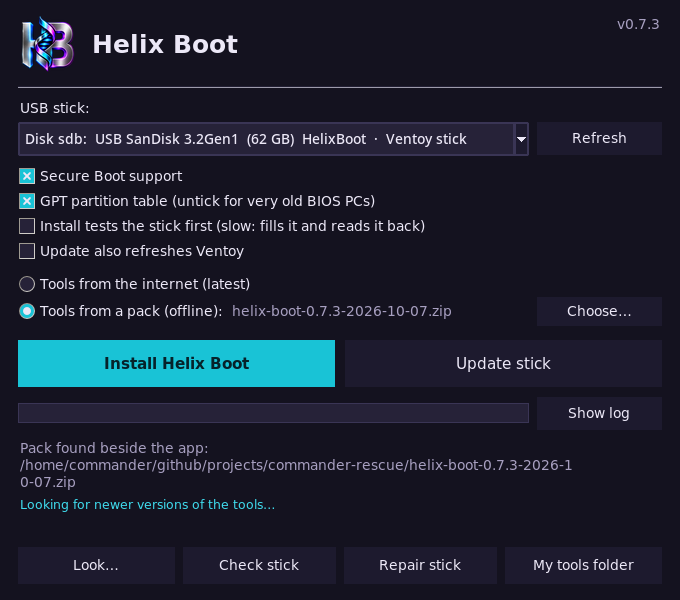
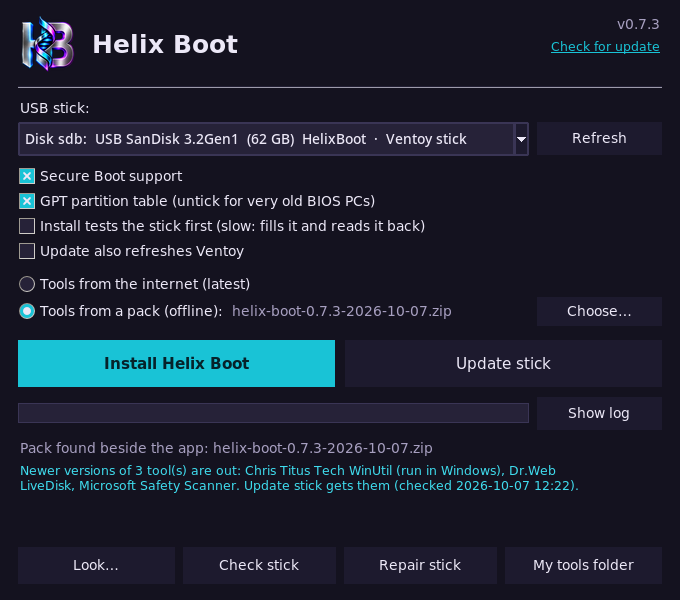
The app looks for a newer Helix Boot, asks, and puts the verified download in its own place

Changed region(s): [[0.0309, 0.72, 0.8338, 0.87], [0.8029, 0.06, 0.9882, 0.09]]

diff --git a/windows/helix_boot.py b/windows/helix_boot.py
@@ -605,6 +605,75 @@ def repair(target: str, run=None) -> str:
             if code else f"✓ Windows found nothing wrong with the filesystem on {drive}.")
 
 
+# ── A newer Helix Boot ─────────────────────────────────────────────────────
+APP_ASSET = "HelixBoot.exe"         # this program's file in a release (linux/helix_gui.py has its own)
+
+
+def app_news(cfg, refresh: bool = False) -> dict | None:
+    """{"current", "latest", "newer", "declined"}, or None when the look is turned off
+    (check_for_updates = false in local.toml) and wasn't asked for by hand."""
+    if not refresh and cfg.settings.get("check_for_updates", True) is False:
+        return None
+    return cr.app_update(cfg, refresh=refresh)
+
+
+def old_program(me: Path) -> Path:
+    return me.with_name(f"{me.stem}.old{me.suffix}")
+
+
+def replace_program(new: Path, me: Path) -> None:
+    """Put a downloaded program where the running one is. A running program can be renamed, on
+    Windows too, though not written over: it steps aside as <name>.old and the new one takes its
+    name. The old one is deleted at the next start."""
+    staged, old = me.with_name(me.name + ".new"), old_program(me)
+    shutil.copy2(new, staged)
+    if os.name != "nt":
+        staged.chmod(0o755)
+    old.unlink(missing_ok=True)
+    os.replace(me, old)
+    try:
+        os.replace(staged, me)
+    except OSError:
+        os.replace(old, me)             # as it was
+        staged.unlink(missing_ok=True)
+        raise
+
+
+def tidy_old_program() -> None:
+    """Delete what an update left behind (the program that was running then)."""
+    if FROZEN:
+        try:
+            old_program(Path(sys.executable).resolve()).unlink(missing_ok=True)
+        except OSError:
+            pass
+
+
+def self_update(progress=lambda pct: None, me: Path | None = None) -> str:
+    """Download the latest release's program, verified, and put it in this one's place.
+    Returns what to tell the user; RescueError when it can't be done here."""
+    cfg = config()
+    found = cr.app_update(cfg, refresh=True)
+    if not found["newer"]:
+        return f"✓ Helix Boot {found['current']} is the newest version."
+    if me is None:
+        if not FROZEN:
+            raise RescueError(f"Helix Boot {found['latest']} is out (this is {found['current']}), but this one runs "
+                              "from a copy of the repo and not from a downloaded program: update it with `git pull`.")
+        me = Path(sys.executable).resolve()
+    print(f"\nDownloading Helix Boot {found['latest']} ({APP_ASSET}) …")
+    new, version = cr.fetch_app(cfg, APP_ASSET)
+    if cr._numbers(version) <= cr._numbers(found["current"]):
+        raise RescueError(f"the download is Helix Boot {version or '?'}, which isn't newer than this one")
+    try:
+        replace_program(new, me)
+    except OSError as e:
+        raise RescueError(f"couldn't put the new program in place ({e}). It is at {new}: copy it over "
+                          f"{me.name} yourself.") from None
+    progress(100)
+    return (f"✓ Helix Boot {version} is in place of {found['current']}. Close this window and start "
+            f"{me.name} again to use it.")
+
+
 # ── Output plumbing ────────────────────────────────────────────────────────
 class Tee:
     """Stand-in for stdout/stderr: to the GUI queue and/or a log file."""
@@ -660,6 +729,7 @@ def apply_theme(root) -> None:
     style.configure("TLabel", background=BG, foreground=TEXT)
     style.configure("Muted.TLabel", foreground=MUTED)
     style.configure("News.TLabel", foreground=ACCENT_HOT, font=(FONT, 9))
+    style.configure("Link.TLabel", foreground=ACCENT, font=(FONT, 9, "underline"))
     style.configure("Title.TLabel", font=(FONT, 18, "bold"))
     style.configure("TButton", background=PANEL, foreground=TEXT, padding=(12, 7), relief="flat", borderwidth=1)
     style.map("TButton", background=[("disabled", BG), ("pressed", EDGE), ("active", FIELD)],
@@ -754,7 +824,11 @@ def gui(selftest: bool = False) -> int:
     if logo:
         ttk.Label(head, image=logo).pack(side="left", padx=(0, 12))
     ttk.Label(head, text="Helix Boot", style="Title.TLabel").pack(side="left")
-    ttk.Label(head, text=f"v{cr.__version__}", style="Muted.TLabel").pack(side="right", anchor="n")
+    corner = ttk.Frame(head)
+    corner.pack(side="right", anchor="n")
+    ttk.Label(corner, text=f"v{cr.__version__}", style="Muted.TLabel").pack(anchor="e")
+    b_newer = ttk.Label(corner, text="Check for update", style="Link.TLabel", cursor="hand2")
+    b_newer.pack(anchor="e", pady=(2, 0))
     ttk.Separator(frm).pack(fill="x", pady=(12, 10))
 
     ttk.Label(frm, text="USB stick:").pack(anchor="w")
@@ -997,6 +1071,31 @@ def gui(selftest: bool = False) -> int:
                 q.put(("news", f"Couldn't look for newer versions of the tools ({e})."))
         threading.Thread(target=job, daemon=True).start()
 
+    def look_for_newer_app():
+        """In the background, at the start: is there a newer Helix Boot? Asked about once a version."""
+        def job():
+            try:
+                found = app_news(config())
+            except Exception:  # noqa: BLE001 — offline: nothing to say
+                return
+            if found and found["newer"]:
+                q.put(("app", found))
+        threading.Thread(target=job, daemon=True).start()
+
+    def do_self_update(event=None):
+        if not busy["on"]:
+            work(lambda progress: self_update(progress), done=lambda text: text)
+
+    def offer_newer_app(found):
+        b_newer.config(text=f"Update to v{found['latest']}")
+        if not FROZEN or busy["on"] or found.get("declined") == found["latest"]:
+            return                      # (from a clone it is `git pull`: the link says so when clicked)
+        if messagebox.askyesno(APP, f"Helix Boot {found['latest']} is out. This is {found['current']}.\n\n"
+                                    "Download it and put it in this one's place?"):
+            do_self_update()
+        else:
+            cr.app_decline(config(), found["latest"])
+
     def do_check():
         d = selected()
         if not d:
@@ -1036,6 +1135,8 @@ def gui(selftest: bool = False) -> int:
                         status.config(text=last[0][:110])
                 elif item[0] == "news":
                     news.config(text=item[1])
+                elif item[0] == "app":
+                    offer_newer_app(item[1])
                 elif item[0] == "total":
                     copying.update(total=item[1], done=0)
                 elif item[0] == "bytes":
@@ -1081,6 +1182,7 @@ def gui(selftest: bool = False) -> int:
     b_look.config(command=do_look)
     b_check.config(command=do_check)
     b_repair.config(command=do_repair)
+    b_newer.bind("<Button-1>", do_self_update)
     b_install.config(command=do_install)
     b_update.config(command=do_update)
     b_pack.config(command=choose_pack)
@@ -1092,6 +1194,7 @@ def gui(selftest: bool = False) -> int:
         root.after(2500, root.destroy)
     else:
         root.after(300, look_for_updates)
+        root.after(1500, look_for_newer_app)
     root.mainloop()
     return 0
 
@@ -1433,6 +1536,8 @@ def cli(argv: list[str]) -> int:
     ap.add_argument("--repair", metavar="DRIVE", help="have Windows repair a stick's filesystem (chkdsk /f)")
     ap.add_argument("--boot-script", metavar="VOLUME", help=argparse.SUPPRESS)   # with --sync-to: Ventoy's partition
     ap.add_argument("--updates", action="store_true", help="say which tools have newer versions than this PC has")
+    ap.add_argument("--self-update", action="store_true",
+                    help="download the latest Helix Boot, verified, and put it in this one's place")
     ap.add_argument("--yes", action="store_true", help="confirm --install")
     ap.add_argument("--mbr", action="store_true", help="MBR instead of GPT")
     ap.add_argument("--no-secure-boot", action="store_true")
@@ -1468,6 +1573,9 @@ def cli(argv: list[str]) -> int:
         if a.updates:
             print(updates_notice(config(), refresh=True))
             return 0
+        if a.self_update:
+            print(self_update())
+            return 0
         if a.list:
             disks = all_disks() if a.all else usb_disks()
             print(json.dumps(disks, indent=2))
@@ -1498,6 +1606,7 @@ def cli(argv: list[str]) -> int:
 
 def main() -> int:
     try:
+        tidy_old_program()
         if len(sys.argv) > 1:
             return cli(sys.argv[1:])
         return gui()

diff --git a/tests/test_windows_app.py b/tests/test_windows_app.py
@@ -513,5 +513,101 @@ class TestPackaging(unittest.TestCase):
         self.assertEqual(sorted(missing), [], "add these imports to windows/helix_boot.py")
 
 
+class TestSelfUpdate(unittest.TestCase):
+    def setUp(self):
+        self.tmp = Path(tempfile.mkdtemp())
+        self.cfg = mock.Mock(cache=self.tmp / "cache", settings={})
+        self.cfg.cache.mkdir()
+        p = mock.patch.object(app, "config", lambda: self.cfg)
+        p.start()
+        self.addCleanup(p.stop)
+
+    def latest(self, tag):
+        return mock.patch.object(app.cr, "_latest_tag", lambda repo: tag)
+
+    def test_asks_where_the_latest_release_is_and_remembers_for_a_while(self):
+        newer = f"v{app.cr.__version__.rsplit('.', 1)[0]}.999"
+        with self.latest(newer):
+            found = app.cr.app_update(self.cfg)
+        self.assertEqual((found["current"], found["latest"], found["newer"]), (app.cr.__version__, newer[1:], True))
+        with mock.patch.object(app.cr, "_latest_tag", side_effect=AssertionError("asked again too soon")):
+            self.assertTrue(app.cr.app_update(self.cfg)["newer"])          # from the last look
+        with self.latest(f"v{app.cr.__version__}"):
+            self.assertFalse(app.cr.app_update(self.cfg, refresh=True)["newer"])
+        with self.latest("v0.0.1"):
+            self.assertFalse(app.cr.app_update(self.cfg, refresh=True)["newer"])    # never offered an older one
+        with self.latest(None):                                             # offline: says so when asked by hand
+            with self.assertRaisesRegex(app.cr.RescueError, "couldn't ask GitHub"):
+                app.cr.app_update(self.cfg, refresh=True)
+            self.assertEqual(app.cr.app_update(self.cfg)["latest"], "0.0.1")       # and otherwise keeps what it knew
+        with self.latest("not-a-version/../x"):
+            with self.assertRaisesRegex(app.cr.RescueError, "couldn't ask GitHub"):
+                app.cr.app_update(self.cfg, refresh=True)
+
+    def test_turned_off_in_local_toml_and_a_declined_version_is_remembered(self):
+        self.cfg.settings = {"check_for_updates": False}
+        with mock.patch.object(app.cr, "_latest_tag", side_effect=AssertionError("it was turned off")):
+            self.assertIsNone(app.app_news(self.cfg))
+        with self.latest("v99.0.0"):
+            self.assertTrue(app.app_news(self.cfg, refresh=True)["newer"])   # asked for by hand: still answers
+            app.cr.app_decline(self.cfg, "99.0.0")
+            self.assertEqual(app.cr.app_update(self.cfg)["declined"], "99.0.0")
+
+    def test_the_new_program_takes_the_running_ones_place(self):
+        me, new = self.tmp / "HelixBoot.exe", self.tmp / "download.exe"
+        me.write_bytes(b"MZ old")
+        new.write_bytes(b"MZ new")
+        said = io.StringIO()
+        with self.latest("v99.0.0"), mock.patch.object(app.cr, "fetch_app", lambda cfg, asset: (new, "99.0.0")), \
+                redirect_stdout(said):
+            text = app.self_update(me=me)
+        self.assertIn("Helix Boot 99.0.0 is in place", text)
+        self.assertEqual(me.read_bytes(), b"MZ new")
+        self.assertEqual((self.tmp / "HelixBoot.old.exe").read_bytes(), b"MZ old")     # stepped aside, deleted at next start
+        self.assertFalse((self.tmp / "HelixBoot.exe.new").exists())
+        if os.name != "nt":
+            self.assertTrue(os.access(me, os.X_OK))
+        with mock.patch.object(app, "FROZEN", True), mock.patch.object(app.sys, "executable", str(me)):
+            app.tidy_old_program()
+        self.assertFalse((self.tmp / "HelixBoot.old.exe").exists())
+
+    def test_nothing_is_replaced_when_there_is_nothing_newer_or_the_download_isnt(self):
+        me, new = self.tmp / "HelixBoot.exe", self.tmp / "download.exe"
+        me.write_bytes(b"MZ old")
+        new.write_bytes(b"MZ what")
+        with self.latest(f"v{app.cr.__version__}"), \
+                mock.patch.object(app.cr, "fetch_app", side_effect=AssertionError("nothing to download")):
+            self.assertIn("is the newest version", app.self_update(me=me))
+        with self.latest("v99.0.0"), redirect_stdout(io.StringIO()):
+            with mock.patch.object(app.cr, "fetch_app", lambda cfg, asset: (new, app.cr.__version__)):
+                with self.assertRaisesRegex(app.RescueError, "isn't newer than this one"):
+                    app.self_update(me=me)
+            with mock.patch.object(app, "FROZEN", False):               # from a clone: git pull, nothing swapped
+                with self.assertRaisesRegex(app.RescueError, "git pull"):
+                    app.self_update()
+        self.assertEqual(me.read_bytes(), b"MZ old")
+
+    def test_only_helix_boots_own_programs_are_fetched_and_by_githubs_checksum(self):
+        asked = []
+
+        def fetch_tool(cfg, tool, lock, force=False):
+            asked.append(tool)
+            (cfg.cache / tool["name"]).mkdir(parents=True, exist_ok=True)
+            (cfg.cache / tool["name"] / tool["title"]).write_bytes(b"MZ")
+            lock[tool["name"]] = {"source_file": tool["title"], "version": "99.0.0"}
+        with mock.patch.object(app.cr, "fetch_tool", fetch_tool), mock.patch.object(app.cr, "load_lock", lambda cfg: {}), \
+                mock.patch.object(app.cr, "save_lock", lambda cfg, lock: None):
+            f, version = app.cr.fetch_app(self.cfg, "HelixBoot-linux-x86_64")
+            self.assertEqual((f.name, version), ("HelixBoot-linux-x86_64", "99.0.0"))
+            self.assertEqual(asked[0]["checksum"], ["github-digest"])
+            self.assertEqual(asked[0]["repo"], app.cr.APP_REPO)
+            self.assertEqual(asked[0]["asset"], [r"^HelixBoot\-linux\-x86_64$"])
+            self.assertEqual(app.cr.fetch_app(self.cfg, "HelixBoot.exe")[0].parent.name, "helixboot-exe")
+            for bad in ("evil.exe", "../HelixBoot.exe", "HelixBoot.exe/x", ""):
+                with self.assertRaisesRegex(app.cr.RescueError, "isn't one of Helix Boot's programs"):
+                    app.cr.fetch_app(self.cfg, bad)
+
+
+
 if __name__ == "__main__":
     unittest.main()

diff --git a/linux/helix_gui.py b/linux/helix_gui.py
@@ -7,6 +7,7 @@ and not a drive letter, and Ventoy is installed by its own Linux script.
 
     linux/helix_gui.py              the window
     linux/helix_gui.py --list       USB sticks as JSON (--all: every disk, marked)
+    linux/helix_gui.py --self-update   get the latest release of this program, verified
 
 Nothing here runs as root but two things, each behind the desktop's own password dialog
 (pkexec): Ventoy's installer, which writes the disk, and fsck for Repair stick. Run it as
@@ -17,6 +18,7 @@ from __future__ import annotations
 
 import json
 import os
+import platform
 import re
 import shutil
 import subprocess
@@ -385,6 +387,7 @@ def on_linux() -> None:
     ).items():
         setattr(app, name, mine)
     app.SYSTEM = "system"
+    app.APP_ASSET = f"HelixBoot-linux-{platform.machine()}"     # this program's file in a release
     app.WINDOW = (680, 600)             # (the fonts here are wider than Windows' own)
     app.SAFE_TO_REMOVE = "eject it in your file manager before unplugging it"
     app.NO_LETTER = "or its partition can't be found"
@@ -400,7 +403,11 @@ def main(argv: list[str] | None = None) -> int:
               file=sys.stderr)
         return 1
     on_linux()
+    app.tidy_old_program()
     try:
+        if "--self-update" in argv:
+            print(app.self_update())
+            return 0
         if "--version" in argv:
             print(f"helix {cr.__version__}")
             return 0

diff --git a/CHANGELOG.md b/CHANGELOG.md
@@ -11,6 +11,15 @@ tagged releases also publish the Windows app.
   does ("ProduKey", where it said "produkey") and reads right for one tool.
 
 ### Added
+- **The app updates itself.** At its start the window looks for a newer Helix
+  Boot and asks whether to get it; **Check for update**, under the version
+  number, does the same when you click it. The new program is downloaded from
+  the release, checked against the checksum GitHub records for it, and put in
+  the running one's place (which steps aside and is deleted at the next
+  start). A version you say no to isn't offered again, an older one never is,
+  and `check_for_updates = false` in `local.toml` turns the look at the start
+  off. Also `HelixBoot.exe --self-update`, and the same on Linux. Run from a
+  clone, it says to `git pull`.
 - **Helix Boot in a window on Linux:** `HelixBoot-linux-x86_64` in each
   release, one file with Python and Tk inside. It is the Windows app's window
   on Linux's own parts: sticks come from `lsblk`, a stick is where it is

diff --git a/docs/code-signing.md b/docs/code-signing.md
@@ -43,7 +43,11 @@ stick, and to nobody else:
   download sites for the latest version number of each tool, to tell you which
   have newer versions. It does this at most once every 6 hours. To turn it off,
   put `check_for_updates = false` under `[settings]` in `local.toml`, next to
-  the `.exe`.
+  the `.exe`. In the same look it asks github.com which release of Helix Boot
+  is the latest, to offer you a newer one; the same setting turns that off.
+- **When you accept a newer Helix Boot**, or click **Check for update**, it
+  downloads that release's program from GitHub and replaces itself with it.
+  Nothing is downloaded or replaced without your yes.
 - **When you press Install or Update** with *the internet* chosen, it downloads
   the tools and their checksums from those same sites. With *a pack* chosen it
   downloads nothing.

diff --git a/README.md b/README.md
@@ -342,6 +342,12 @@ to the disk.
 5. **Repair stick** has Windows repair the stick's filesystem (`chkdsk /f`),
    for when an update or a check says it is damaged. It asks first.
 
+The app keeps itself current too. When it starts it looks for a newer Helix
+Boot and asks whether to get it, and **Check for update** under the version
+number does that whenever you click it. The new program is downloaded from the
+release, checked against the checksum GitHub records for it, and takes the
+place of the one that is running; close the window and start it again.
+
 Under the title the app says whether newer versions of your tools are out. It
 looks at most every 6 hours, because GitHub limits how often a PC that isn't
 signed in may ask. `check_for_updates = false` under `[settings]` in
